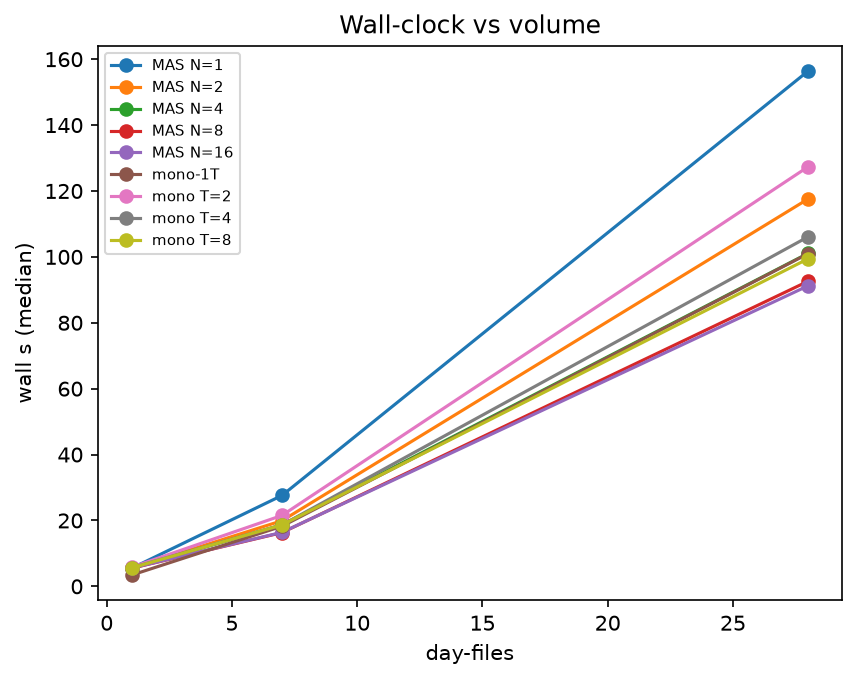
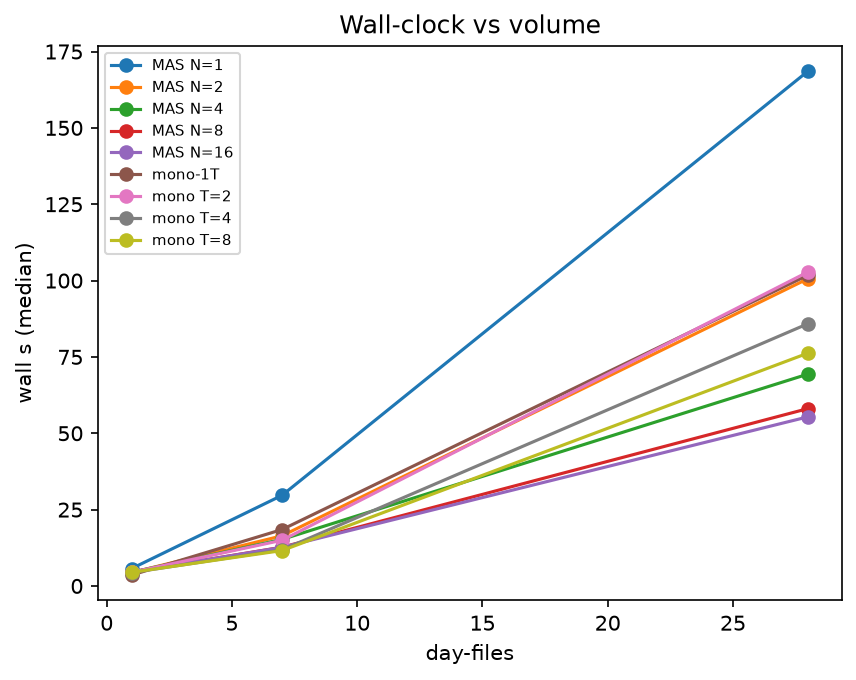
bench: merge_all measured end to end — 1.11x to 1.84x
The projections were both wrong and are recorded as such. 2.89x came from
merging 8 sources in isolation; the sweep gives ~2.1x consistently. mas N=1
gains nothing because merge_all returns to merge_from for a single source. And
the architectures do not converge: the gap between mono-MT T=8 and MAS N=16 is
20.9 s, not the ~4 s a flat-merge projection implied, because MAS's merge
benefits more.

mono-1T is the control and moved +0.8%, so merge_all is the only variable.

1.84x is a floor: clean_s is inflated 7-34% on this branch for every parallel
config, merge_all cannot cause that, and with clean at main's levels the ratio
would be higher. Unexplained, so the number is presented as a lower bound.

diff --git a/docs/bench/results.md b/docs/bench/results.md
@@ -2,33 +2,33 @@
 
 | arch | n_workers | threads | files | clean_s | merge_s | total_s | events_per_s | peak_rss_mb | cpu_pct |
 | --- | --- | --- | --- | --- | --- | --- | --- | --- | --- |
-| mas | 1 | 1 | 1 | 3.424 | 2.081 | 5.503 | 139144 | 222.1 | 169.8 |
-| mas | 1 | 1 | 7 | 16.993 | 10.606 | 27.595 | 141367 | 663.2 | 173.2 |
-| mas | 1 | 1 | 28 | 91.337 | 65.194 | 156.404 | 139847 | 2693.6 | 183.8 |
-| mas | 2 | 1 | 1 | 3.393 | 2.079 | 5.472 | 139933 | 246.4 | 170.1 |
-| mas | 2 | 1 | 7 | 9.36 | 10.568 | 19.928 | 195756 | 582 | 337.9 |
-| mas | 2 | 1 | 28 | 53.813 | 63.035 | 117.583 | 186019 | 2216.4 | 331.3 |
-| mas | 4 | 1 | 1 | 3.404 | 2.105 | 5.493 | 139398 | 295.9 | 170.6 |
-| mas | 4 | 1 | 7 | 7.816 | 10.817 | 18.658 | 209080 | 651.2 | 469.3 |
-| mas | 4 | 1 | 28 | 38.144 | 63.323 | 101.072 | 216407 | 1745.5 | 651.6 |
-| mas | 8 | 1 | 1 | 3.392 | 2.073 | 5.501 | 139195 | 399.3 | 174.9 |
-| mas | 8 | 1 | 7 | 5.712 | 10.646 | 16.32 | 239033 | 869.7 | 707.3 |
-| mas | 8 | 1 | 28 | 29.758 | 62.848 | 92.606 | 236191 | 1611.1 | 825.7 |
-| mas | 16 | 1 | 1 | 3.472 | 2.107 | 5.552 | 137916 | 602 | 178.1 |
-| mas | 16 | 1 | 7 | 5.742 | 10.635 | 16.397 | 237910 | 1055 | 701.2 |
-| mas | 16 | 1 | 28 | 27.072 | 64.038 | 91.222 | 239774 | 2196.2 | 938 |
-| mono-1T | 0 | 1 | 1 | 3.431 | 0 | 3.431 | 223174 | 80.4 | 113.7 |
-| mono-1T | 0 | 1 | 7 | 18.251 | 0 | 18.251 | 213743 | 103.6 | 117.8 |
-| mono-1T | 0 | 1 | 28 | 100.979 | 0 | 100.979 | 216606 | 229.6 | 117.2 |
-| mono-MT | 0 | 2 | 1 | 3.489 | 2.242 | 5.813 | 131724 | 133.9 | 111.1 |
-| mono-MT | 0 | 2 | 7 | 10.164 | 11.366 | 21.529 | 181198 | 320.1 | 160.1 |
-| mono-MT | 0 | 2 | 28 | 55.689 | 70.55 | 127.352 | 171750 | 1527.8 | 158.4 |
-| mono-MT | 0 | 4 | 1 | 3.48 | 2.215 | 5.696 | 134430 | 144 | 109.7 |
-| mono-MT | 0 | 4 | 7 | 7.058 | 11.592 | 18.65 | 209170 | 249 | 241.3 |
-| mono-MT | 0 | 4 | 28 | 37.903 | 68.508 | 106.097 | 206157 | 915.3 | 265.9 |
-| mono-MT | 0 | 8 | 1 | 3.442 | 2.172 | 5.614 | 136393 | 151 | 110.9 |
-| mono-MT | 0 | 8 | 7 | 6.975 | 11.808 | 18.652 | 209147 | 341.5 | 276.6 |
-| mono-MT | 0 | 8 | 28 | 31.409 | 67.829 | 99.43 | 219980 | 735.7 | 278.9 |
+| mas | 1 | 1 | 1 | 3.515 | 2.2 | 5.715 | 133983 | 222.3 | 177.9 |
+| mas | 1 | 1 | 7 | 18.528 | 11.146 | 29.677 | 131449 | 665.6 | 176.8 |
+| mas | 1 | 1 | 28 | 98.144 | 70.554 | 168.613 | 129721 | 2818.9 | 185.1 |
+| mas | 2 | 1 | 1 | 3.474 | 0.912 | 4.386 | 174581 | 289.7 | 140.8 |
+| mas | 2 | 1 | 7 | 12.206 | 4.216 | 16.422 | 237548 | 1055.5 | 277.5 |
+| mas | 2 | 1 | 28 | 72.263 | 29.281 | 100.642 | 217331 | 3662.4 | 289.8 |
+| mas | 4 | 1 | 1 | 3.531 | 0.964 | 4.495 | 170347 | 340.2 | 150.9 |
+| mas | 4 | 1 | 7 | 10.808 | 4.435 | 15.243 | 255922 | 1194.7 | 419.9 |
+| mas | 4 | 1 | 28 | 43.699 | 26.87 | 69.389 | 315218 | 4384.4 | 520.5 |
+| mas | 8 | 1 | 1 | 3.581 | 0.984 | 4.579 | 167222 | 445.3 | 152.7 |
+| mas | 8 | 1 | 7 | 8.251 | 4.437 | 12.695 | 307288 | 1424.3 | 611.8 |
+| mas | 8 | 1 | 28 | 32.635 | 25.456 | 58.091 | 376524 | 4849.2 | 708 |
+| mas | 16 | 1 | 1 | 3.614 | 0.953 | 4.567 | 167662 | 652.7 | 158.6 |
+| mas | 16 | 1 | 7 | 8.357 | 4.168 | 12.652 | 308332 | 1632.7 | 606.2 |
+| mas | 16 | 1 | 28 | 29.275 | 25.367 | 55.394 | 394856 | 5688.4 | 814.1 |
+| mono-1T | 0 | 1 | 1 | 3.573 | 0 | 3.573 | 214305 | 80 | 103.6 |
+| mono-1T | 0 | 1 | 7 | 18.469 | 0 | 18.469 | 211220 | 108.7 | 111 |
+| mono-1T | 0 | 1 | 28 | 101.814 | 0 | 101.814 | 214830 | 224.4 | 113 |
+| mono-MT | 0 | 2 | 1 | 3.584 | 0.88 | 4.468 | 171377 | 212.7 | 113.2 |
+| mono-MT | 0 | 2 | 7 | 10.398 | 4.576 | 14.967 | 260641 | 829.8 | 198 |
+| mono-MT | 0 | 2 | 28 | 71.465 | 31.391 | 102.856 | 212653 | 3419.9 | 213.7 |
+| mono-MT | 0 | 4 | 1 | 3.451 | 0.929 | 4.365 | 175421 | 195.4 | 112.8 |
+| mono-MT | 0 | 4 | 7 | 7.508 | 4.398 | 11.842 | 329422 | 844.3 | 328.1 |
+| mono-MT | 0 | 4 | 28 | 54.065 | 32.561 | 85.895 | 254644 | 3605.4 | 367.5 |
+| mono-MT | 0 | 8 | 1 | 3.448 | 1.017 | 4.463 | 171569 | 231.8 | 115 |
+| mono-MT | 0 | 8 | 7 | 7.204 | 4.387 | 11.591 | 336556 | 894.4 | 405.7 |
+| mono-MT | 0 | 8 | 28 | 43.315 | 32.447 | 76.263 | 286806 | 3789.5 | 452.3 |
 
 Caveats: laptop thermals (no fan control), median-of-3, N=16 on 8 cores is a deliberate oversubscription point, merge phase reported separately; mono-MT uses a std::thread atomic-counter pool (dynamic load balancing, slightly fairer than PUSH/PULL round-robin).
 
@@ -106,3 +106,53 @@ Caveats: laptop thermals (no fan control), median-of-3, N=16 on 8 cores is a del
   and spliced in. The monolith block finished before any rebuild and the MAS
   28-day block ran after the binaries were restored; neither was affected. The
   superseded file is kept as `bench/results.csv.contaminated`.
+
+### merge_all: measured end to end (2026-08-11, branch `perf/merge-set-based`)
+
+The table above is this branch's sweep. The comparison is against `main`'s, which
+is the same harness and the same binaries but for `merge_all`.
+
+**Validity gate first.** `mono-1T` writes straight to the destination and has no
+merge phase, so `merge_all` cannot reach it: 101.0 s → 101.8 s, **+0.8%**. Had it
+moved, something other than the change under test did, and none of the rest would
+be worth quoting.
+
+28-day medians:
+
+| arch | merge before | merge after | total before | total after | vs `mono-1T` |
+|---|---:|---:|---:|---:|---:|
+| mono-1T | — | — | 101.0 | 101.8 | 1.00x |
+| mono-MT T=8 | 67.8 | 32.4 | 99.4 | 76.3 | 1.34x |
+| mas N=8 | 62.8 | 25.5 | 92.6 | 58.1 | 1.75x |
+| mas N=16 | 64.0 | 25.4 | 91.2 | **55.4** | **1.84x** |
+
+**The scaling wall moved: 1.11x → 1.84x** against the sequential baseline.
+
+Three things the projections got wrong, recorded because they were written down
+before the measurement:
+
+- **2.89x on the merge was the best case, not the case.** That A/B merged 8
+  sources in isolation. In the sweep the merge improves ~2.1x consistently
+  (mono-MT 2.09-2.25x, MAS 2.15-2.52x). Extrapolating the most favourable
+  configuration to all of them was the error.
+- **`mas N=1` gains nothing, by construction.** `merge_all` returns to
+  `merge_from` for a single source, so its 0.92x is the same code path measured
+  twice, not a regression.
+- **The architectures do not converge.** A projection assuming a flat 22.8 s
+  merge everywhere put mono-MT T=8 and MAS N=16 within ~4 s. Measured, the gap is
+  20.9 s, because MAS's merge benefits more (25.4 s) than mono-MT's (32.4 s).
+
+**1.84x is a lower bound.** `clean_s` came out higher on this branch than on
+`main` for every parallel configuration (+7% to +34%, unevenly). `merge_all` does
+not touch the clean phase, and MAS `clean_s` is documented above as including
+worker spawn, ZMQ connect and the registration wait — a jittery component. So the
+new totals carry inflated clean time; with clean at `main`'s levels the ratio
+would be higher, not lower. The inflation is unexplained and is the reason the
+figure is presented as a floor.
+
+**Measurement caveat.** The first attempt at this sweep was killed by SIGTERM at
+65 of 81 rows, mid-MAS. The monolith block had completed and no binary changed
+during it, so those 36 rows were kept and the MAS block was re-run through the
+same harness (`run_bench.sh --only mas`). The two blocks therefore come from
+different sessions on the same machine — the same limitation already noted for
+the 30 re-measured rows in the previous sweep.
